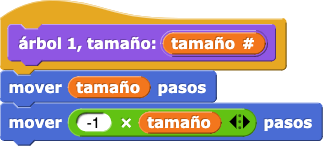
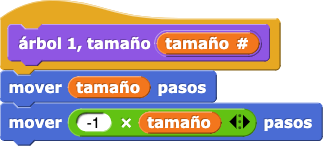
XML - 7.1.2 Images

Changed region(s): [[0.4644, 0.1096, 0.8978, 0.4932]]

diff --git a/cur/programming/7-recursion/1-trees/2-base-case.es.html b/cur/programming/7-recursion/1-trees/2-base-case.es.html
@@ -15,9 +15,9 @@
 
         <p>
             Parecía tener sentido reemplazar todas las secuencias de comandos de árbol numeradas similares con una única secuencia de comandos recursiva con la misma estructura:<br />
-            <img src="/bjc-r/img/7-recursion/tree-2-script.es.png" height="267" alt="árbol2 tamaño:(tamaño#){mover(tamaño) pasos;girar (25) grados; árbol 1 tamaño:(tamaño*0.65);girar(25) grados;girar(35) grados; árbol 1 tamaño:(tamaño*0.85);girar (35); mover(-1*tamaño) pasos}" title="árbol2 tamaño:(tamaño#){mover(tamaño) pasos;girar (25) grados; árbol 1 tamaño:(tamaño*0.65);girar(25) grados;girar(35) grados; árbol 1 tamaño:(tamaño*0.85);girar (35); mover(-1*tamaño) pasos}">&nbsp;
+            <img src="/bjc-r/img/7-recursion/tree2.es.png" height="267" alt="árbol2 tamaño:(tamaño#){mover(tamaño) pasos;girar (25) grados; árbol 1 tamaño:(tamaño*0.65);girar(25) grados;girar(35) grados; árbol 1 tamaño:(tamaño*0.85);girar (35); mover(-1*tamaño) pasos}" title="árbol2 tamaño:(tamaño#){mover(tamaño) pasos;girar (25) grados; árbol 1 tamaño:(tamaño*0.65);girar(25) grados;girar(35) grados; árbol 1 tamaño:(tamaño*0.85);girar (35); mover(-1*tamaño) pasos}">&nbsp;
             <img src="/bjc-r/img/7-recursion/tree-3-script.es.png" height="267" alt="árbol 3 tamaño:(tamaño#){mover(tamaño) pasos;girar (25) grados; árbol 2 tamaño:(tamaño*0.65);girar(25) grados;girar(35) grados; árbol 2 tamaño:(tamaño*0.85);girar (35); mover(-1*tamaño) pasos}" title="árbol 3 tamaño:(tamaño#){mover(tamaño) pasos;girar (25) grados; árbol 2 tamaño:(tamaño*0.65);girar(25) grados;girar(35) grados; árbol 2 tamaño:(tamaño*0.85);girar (35); mover(-1*tamaño) pasos}">&nbsp;&nbsp;&nbsp;&nbsp;&nbsp;&nbsp; ... &nbsp;&nbsp;&nbsp;&nbsp;&nbsp;&nbsp;
-            <img src="/bjc-r/img/7-recursion/recursiveTree-wo-base.es.png" height="267"  alt="árbol nivel:(nivel#) tamaño:(tamaño#){mover(tamaño) pasos;girar (25) grados; árbol nivel:(nivel-1) tamaño:(tamaño*0.65);girar(25) grados;girar(35) grados; árbol nivel:(nivel-1) tamaño:(tamaño*0.85);girar (35); mover(-1*tamaño) pasos}" title="árbol nivel:(nivel#) tamaño:(tamaño#){mover(tamaño) pasos;girar (25) grados; árbol nivel:(nivel-1) tamaño:(tamaño*0.65);girar(25) grados;girar(35) grados; árbol nivel:(nivel-1) tamaño:(tamaño*0.85);girar (35); mover(-1*tamaño) pasos}" >
+            <img src="/bjc-r/img/7-recursion/tree-nobase.es.png" height="267"  alt="árbol nivel:(nivel#) tamaño:(tamaño#){mover(tamaño) pasos;girar (25) grados; árbol nivel:(nivel-1) tamaño:(tamaño*0.65);girar(25) grados;girar(35) grados; árbol nivel:(nivel-1) tamaño:(tamaño*0.85);girar (35); mover(-1*tamaño) pasos}" title="árbol nivel:(nivel#) tamaño:(tamaño#){mover(tamaño) pasos;girar (25) grados; árbol nivel:(nivel-1) tamaño:(tamaño*0.65);girar(25) grados;girar(35) grados; árbol nivel:(nivel-1) tamaño:(tamaño*0.85);girar (35); mover(-1*tamaño) pasos}" >
         </p>
         <!-- 	<p>We first tried to build the recursive tree by using the same script as for <code>tree2</code>, <code>tree3</code>, etc. and replacing the call to a lower-level tree with a call to <code>tree</code> itself but with a lower level input, like this:<br />
         <img class="indent" src="/bjc-r/img/6-recursion/tree-recursive-call.es.png" alt="árbol level: (level - 1) tamaño: (tamaño × 0.65)" title="árbol level: (level - 1) tamaño: (tamaño × 0.65)" />
